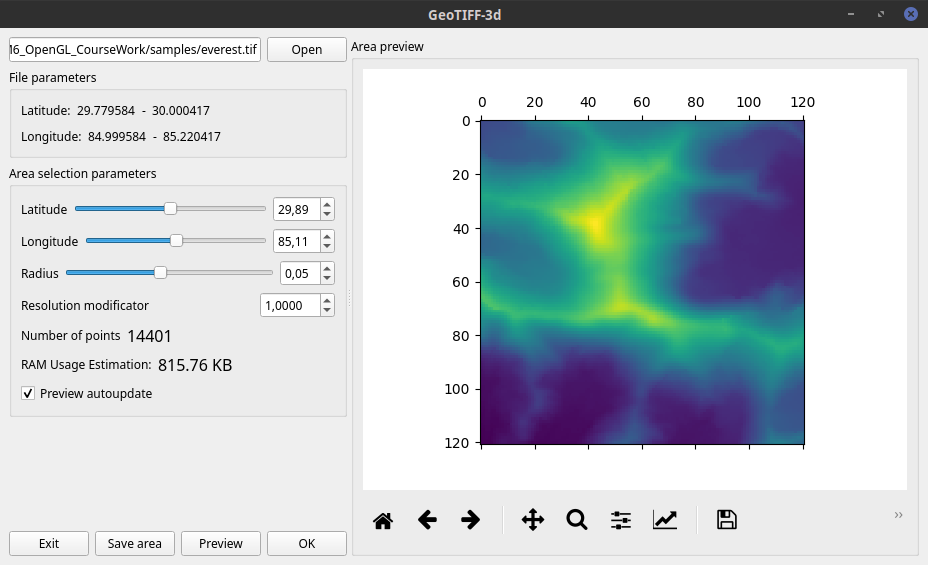
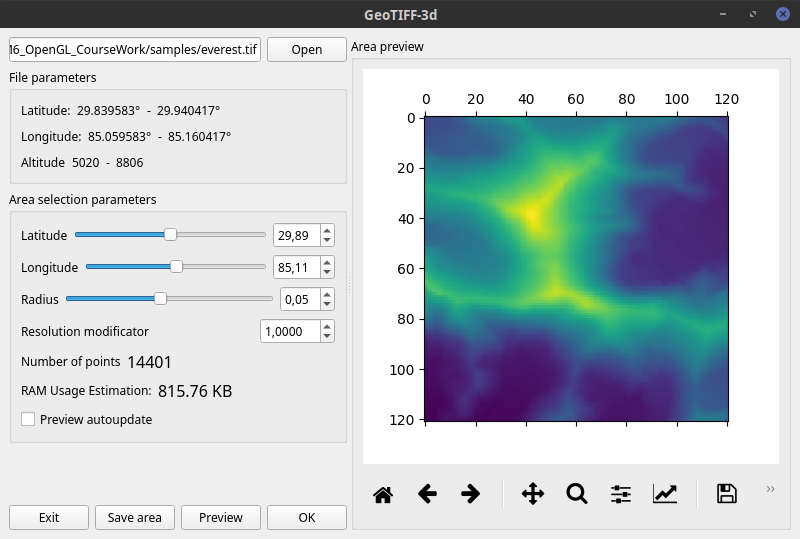
Minimap fixed

diff --git a/src/ui/main_window.py b/src/ui/main_window.py
@@ -420,10 +420,16 @@ class MainWindow(QMainWindow, Ui_MainWindow):
 
     def updateMatrices(self):
         proj = QMatrix4x4()
+        coef = 0.01
+        center_x = 0
+        center_y = 0
+        projection = (-1 * coef + center_x, 1 * coef + center_x,
+                      -1 * coef + center_y, 1 * coef + center_y,
+                      2.8 * coef, 20)
         if self.perspectiveRadioButton.isChecked():
-            proj.frustum(-0.25, 0.25, -0.3, 0.2, 0.7, 20)
+            proj.frustum(*projection)
         else:
-            proj.ortho(-0.25, 0.25, -0.1, 0.4, 0.7, 20)
+            proj.ortho(*projection)
         modelview = QMatrix4x4()
         modelview.lookAt(self.camera_pos, self.camera_pos + self.camera_rot,
                          QVector3D(0, 1, 0))

diff --git a/src/ui/widgets/minimap.py b/src/ui/widgets/minimap.py
@@ -60,7 +60,7 @@ class CameraItem(QGraphicsItem):
 
         rect = getRect(widget)
         x = self.pos.x() * rect.width() + rect.x()
-        y = (1 - self.pos.z()) * rect.height() + rect.y()
+        y = self.pos.z() * rect.height() + rect.y()
         x, y = max(x, 0), max(y, 0)
         x, y = min(x, widget.width()), min(y, widget.height())
 
@@ -69,7 +69,7 @@ class CameraItem(QGraphicsItem):
         dangle = np.pi / 180 * 30
 
         point = QPoint(x, y)
-        angle = -cart2pol(self.rot.x(), self.rot.z())[1]
+        angle = cart2pol(self.rot.x(), self.rot.z())[1]
         delta_1 = QPoint(*pol2cart(arr_rad, angle - dangle))
         delta_2 = QPoint(*pol2cart(arr_rad, angle + dangle))
 

diff --git a/src/api/geotiff_processor.py b/src/api/geotiff_processor.py
@@ -286,8 +286,13 @@ class GeoTIFFProcessor:
                                       **kwargs)
             xticks = [i for i in np.linspace(0, xlen - 1, 10, dtype=int)]
             yticks = [i for i in np.linspace(0, ylen - 1, 10, dtype=int)]
+            if data.x_cell_size < 0:
+                xticks.reverse()
+            if data.y_cell_size < 0:
+                yticks.reverse()
             xtick_labels = [f"{get_lon(i):.2f}" for i in xticks]
             ytick_labels = [f"{get_lat(i):.2f}" for i in yticks]
+            self.ax.invert_yaxis()
             self.ax.set_xticks(xticks)
             self.ax.set_xticklabels(xtick_labels, rotation=90)
             self.ax.set_yticks(yticks)
